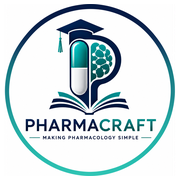
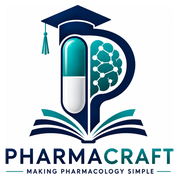
Add files via upload
v98 New logo everywhere - nav, footer, PWA icons

diff --git a/sw.js b/sw.js
@@ -1,7 +1,7 @@
 /* PharmaCraft Service Worker
    Cache-first for shell, network-first for HTML.
    Version bumped each deploy to force update. */
-const CACHE_VERSION = 'pharmacraft-v97-new-circular-logo-20260815';
+const CACHE_VERSION = 'pharmacraft-v98-new-logo-final-20260816';
 const CORE_ASSETS = [
   '/',
   '/index.html',
